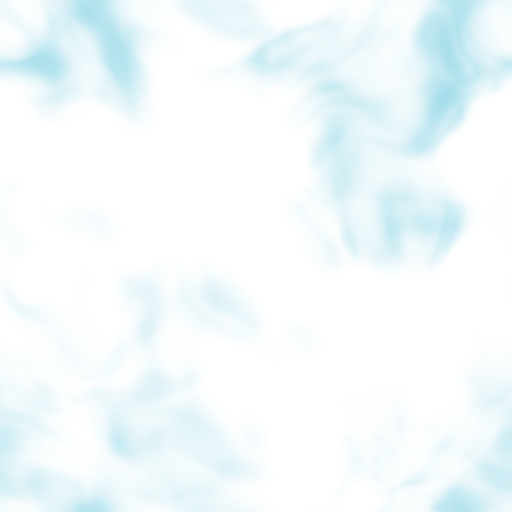
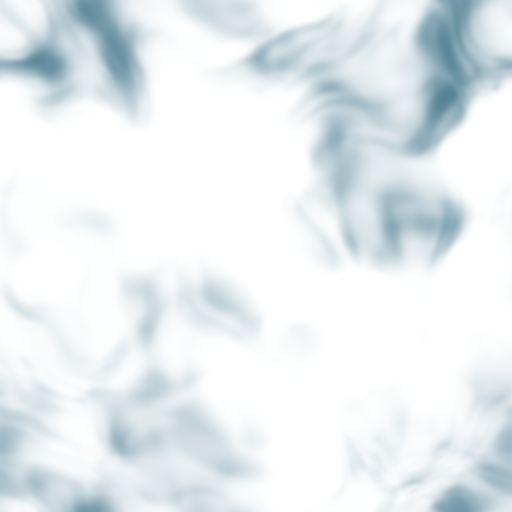
Daily Games: the shelf goes round in a circle (a copy of the row each side, back to the middle row at rest; one case a swipe); darker smoke; sw CACHE gg-v256
Claude-Session: https://claude.ai/code/session_01AH8E1dTJHFZcRinqqkpkzG

diff --git a/js/views/games.js b/js/views/games.js
@@ -284,11 +284,12 @@ function backHTML(g, s) {
     + `<span class="gm-scr"><span class="gm-scr-h">Today’s leaderboard</span>${rows}</span>`
     + `<span class="gm-bk-foot"><span class="gm-bk-tap">Tap for the season ›</span></span></span></div>`;
 }
-function caseHTML(g, s, i, n) {
+function caseHTML(g, s, i, n, clone) {
   const done = s.kind === 'done';
   const what = done ? `${g.name}: played today${placeText(s) ? `, ${placeText(s)}` : ''}. Show the leaderboard` : `${g.name}${s.kind === 'started' ? ', under way' : ''}`;
-  return `<div class="gm-slot" role="group" aria-roledescription="slide" aria-label="${i + 1} of ${n}" data-gm-slot="${g.id}">`
-    + `<button type="button" class="gm-case${done ? ' is-done' : ''}" data-gm="${g.id}" data-kind="${s.kind}" aria-label="${esc(what)}">`
+  const slot = clone ? 'aria-hidden="true" data-gm-clone' : `role="group" aria-roledescription="slide" aria-label="${i + 1} of ${n}"`;
+  return `<div class="gm-slot" ${slot} data-gm-slot="${g.id}">`
+    + `<button type="button" class="gm-case${done ? ' is-done' : ''}" data-gm="${g.id}" data-kind="${s.kind}" aria-label="${esc(what)}"${clone ? ' tabindex="-1"' : ''}>`
     + `<span class="gm-flip">${frontHTML(g, s)}${done ? backHTML(g, s) : ''}</span><span class="gm-gloss" aria-hidden="true"></span></button></div>`;
 }
 
@@ -324,12 +325,16 @@ function selHTML(g, s) {
 function stateOf(g) {
   try { return STATE[g.id](); } catch (e) { console.error(e); return {kind: 'new', sub: SUBS[g.id] || ''}; }
 }
-/** The shelf as it stands now (the cores that haven't loaded yet show Play). */
+/** The shelf as it stands now (the cores that haven't loaded yet show Play). It goes round in a circle (the owner's
+ *  ask, Oct 2026): the games three times over, the real ones in the middle and a copy each side (data-gm-clone, hidden
+ *  from screen readers), so past the last game comes the first again; mountList moves you back to the middle row
+ *  whenever the shelf comes to rest out on a copy. */
 export function listHTML() {
   const list = gamesFor(), states = list.map(stateOf);
+  const row = clone => list.map((g, i) => caseHTML(g, states[i], i, list.length, clone)).join('');
   return `<div class="gm-list" data-key="games" data-enter data-ids="${list.map(g => g.id).join(' ')}">`
     + `<div class="gm-shelf" data-hscroll role="region" aria-roledescription="carousel" aria-label="Daily games: swipe across" tabindex="0">`
-    + list.map((g, i) => caseHTML(g, states[i], i, list.length)).join('') + `</div>`
+    + row(true) + row(false) + row(true) + `</div>`
     + `<div class="gm-pips" aria-hidden="true">${list.map((g, i) => `<i class="gm-pip${states[i].kind === 'done' ? ' is-done' : ''}" data-gm-pip="${g.id}"></i>`).join('')}</div>`
     + `<div class="gm-sel" data-gm-sel aria-live="polite">${selHTML(list[0], states[0])}</div></div>`;
 }
@@ -339,10 +344,13 @@ const SHELF_KEY = 'gg-shelf';
 /** Wires the shelf in el: the cores load at idle; refresh(animate) brings every case (and what's under the shelf) up to
  *  date (a game just finished turns its case round), tick() moves the countdown. opts.play(id): open a game. */
 export function mountList(el, ctx, opts = {}) {
-  const st = {dead: false, cur: 0, zoom: null, raf: 0, saved: 0};
+  // st.cur: the slot in the middle, counting every copy (slots()); its game is list()[st.cur % n()]
+  const st = {dead: false, cur: 0, zoom: null, raf: 0, saved: 0, settle: 0, touch: false};
   const shelf = el.querySelector('.gm-shelf'), sel = el.querySelector('[data-gm-sel]');
   const list = () => gamesFor().filter(g => el.querySelector(`.gm-slot[data-gm-slot="${g.id}"]`));
   const slots = () => [...el.querySelectorAll('.gm-slot')];
+  const n = () => Math.max(1, list().length);
+  const curCase = id => { const sl = slots()[st.cur]; return sl && sl.dataset.gmSlot === id ? sl.querySelector('.gm-case') : el.querySelector(`.gm-slot:not([data-gm-clone]) .gm-case[data-gm="${id}"]`); };
   const shown = new Map(); // id → the markup its case shows
   const sig = (g, s) => `${s.kind}|${s.test ? 1 : 0}|${s.kind === 'done' ? backHTML(g, s) : frontHTML(g, s)}`;
   // the case in the middle: bigger and lit, the others smaller and turned a little toward it
@@ -357,15 +365,30 @@ export function mountList(el, ctx, opts = {}) {
       sl.classList.toggle('is-cur', a < .5);
       if (Math.abs(d) < bd) { bd = Math.abs(d); best = i; }
     });
-    if (best !== st.cur) setCur(best);
+    if (best !== st.cur) { const was = st.cur; st.cur = best; if (was < 0 || was % n() !== best % n()) setCur(best % n()); }
+  };
+  // Round the circle: at rest on a copy, the same case in the middle row takes its place (no movement to see: the
+  // copies look the same). Never under a finger, and not before the shelf has stopped.
+  const settle = () => {
+    st.settle = 0;
+    const k = n(), j = st.cur;
+    if (st.dead || st.touch || j < 0 || (j >= k && j < 2 * k)) return;
+    const all = slots(), to = k + (j % k);
+    if (!all[j] || !all[to]) return;
+    shelf.scrollLeft += all[to].offsetLeft - all[j].offsetLeft; // (at once: the shelf has no smooth scrolling of its own)
+    st.cur = to;
+    layout();
   };
   const onScroll = () => {
     if (!st.raf) st.raf = requestAnimationFrame(layout);
+    clearTimeout(st.settle);
+    st.settle = setTimeout(settle, 140);
     clearTimeout(st.saved);
-    st.saved = setTimeout(() => { const g = list()[st.cur]; if (g) try { sessionStorage.setItem(SHELF_KEY, g.id); } catch (_) {} }, 200);
+    st.saved = setTimeout(() => { const g = list()[st.cur % n()]; if (g) try { sessionStorage.setItem(SHELF_KEY, g.id); } catch (_) {} }, 200);
   };
+  const onDown = () => { st.touch = true; };
+  const onUp = () => { st.touch = false; clearTimeout(st.settle); st.settle = setTimeout(settle, 140); };
   function setCur(i, animate = true) {
-    st.cur = i;
     const g = list()[i];
     if (!g) return;
     el.querySelectorAll('[data-gm-pip]').forEach(p => p.classList.toggle('is-cur', p.dataset.gmPip === g.id));
@@ -374,6 +397,7 @@ export function mountList(el, ctx, opts = {}) {
     const go = () => { sel.dataset.html = html; sel.innerHTML = html; ui.hydrate(sel); };
     if (animate && ctx.visible && !ui.RM) ui.crossfade(sel, go, {duration: 140}); else go();
   }
+  // i: a slot, counting every copy
   const center = (i, smooth = true) => {
     const sl = slots()[i];
     if (!sl) return;
@@ -392,7 +416,7 @@ export function mountList(el, ctx, opts = {}) {
       + (note || `<div class="gm-scr-rows" role="list" aria-label="${mode === 'season' ? 'The season' : 'Today'}">${rows.map(r => rowHTML(r, {sub: true})).join('')}</div>`);
   }
   function openZoom(id) {
-    const g = byId(id), cs = el.querySelector(`.gm-case[data-gm="${id}"]`);
+    const g = byId(id), cs = curCase(id);
     if (!g || st.zoom) return;
     const s = stateOf(g);
     const z = document.createElement('div');
@@ -442,7 +466,7 @@ export function mountList(el, ctx, opts = {}) {
     if (!Z) return;
     st.zoom = null;
     if (Z.app) Z.app.inert = Z.prev;
-    const cs = el.querySelector(`.gm-case[data-gm="${Z.id}"]`), card = Z.el.querySelector('.gm-z-case');
+    const cs = curCase(Z.id), card = Z.el.querySelector('.gm-z-case');
     if (fast || ui.RM || !cs || !card) { Z.el.remove(); if (cs && !fast) cs.focus({preventScroll: true}); return; }
     const a = cs.getBoundingClientRect(), b = card.getBoundingClientRect();
     const sx = a.width / b.width, sy = a.height / b.height, dx = a.left + a.width / 2 - (b.left + b.width / 2), dy = a.top + a.height / 2 - (b.top + b.height / 2);
@@ -457,8 +481,8 @@ export function mountList(el, ctx, opts = {}) {
     if (zb) { openZoom(zb.dataset.gmZoom); return; }
     const cs = e.target.closest('.gm-case[data-gm]');
     if (!cs) return;
-    const i = list().findIndex(g => g.id === cs.dataset.gm);
-    if (i !== st.cur) { ui.haptic('selection'); center(i); return; }
+    const i = slots().indexOf(cs.closest('.gm-slot'));
+    if (i >= 0 && i !== st.cur) { ui.haptic('selection'); center(i); return; }
     if (cs.dataset.kind === 'done') { openZoom(cs.dataset.gm); return; }
     if (cs.dataset.kind === 'loading') return;
     if (cs.dataset.kind === 'error') { const b = sel.querySelector('[data-gm-retry]'); if (b) b.click(); return; }
@@ -468,10 +492,15 @@ export function mountList(el, ctx, opts = {}) {
   const onKey = e => {
     if (e.key !== 'ArrowLeft' && e.key !== 'ArrowRight') return;
     e.preventDefault();
-    const i = Math.max(0, Math.min(list().length - 1, st.cur + (e.key === 'ArrowLeft' ? -1 : 1)));
-    if (i !== st.cur) center(i);
+    center(st.cur + (e.key === 'ArrowLeft' ? -1 : 1)); // round the circle (settle brings it back to the middle row)
   };
   shelf.addEventListener('scroll', onScroll, {passive: true});
+  shelf.addEventListener('pointerdown', onDown, {passive: true});
+  shelf.addEventListener('touchstart', onDown, {passive: true});
+  addEventListener('pointerup', onUp, {passive: true});
+  addEventListener('touchend', onUp, {passive: true});
+  addEventListener('touchcancel', onUp, {passive: true});
+  if ('onscrollend' in shelf) shelf.addEventListener('scrollend', onUp);
   shelf.addEventListener('keydown', onKey);
   el.addEventListener('click', onClick);
   const onResize = () => { center(st.cur, false); layout(); };
@@ -486,7 +515,7 @@ export function mountList(el, ctx, opts = {}) {
     const gs = list();
     let i = gs.findIndex(g => g.id === id);
     if (i < 0) i = Math.max(0, gs.findIndex(g => stateOf(g).kind !== 'done'));
-    center(i, false);
+    center(n() + i, false); // in the middle row
     st.cur = -1;
     layout();
   };
@@ -509,24 +538,25 @@ export function mountList(el, ctx, opts = {}) {
       return;
     }
     list().forEach((g, i) => {
-      const cs = el.querySelector(`.gm-case[data-gm="${g.id}"]`);
-      if (!cs) return;
+      const css = [...el.querySelectorAll(`.gm-case[data-gm="${g.id}"]`)]; // the game and its copies
+      if (!css.length) return;
       const s = stateOf(g), key = sig(g, s);
       if (shown.get(g.id) === key) return;
-      const was = cs.dataset.kind;
       shown.set(g.id, key);
-      const flipNow = s.kind === 'done' && was !== 'done';
-      cs.dataset.kind = s.kind;
-      const fl = cs.querySelector('.gm-flip');
-      fl.innerHTML = frontHTML(g, s) + (s.kind === 'done' ? backHTML(g, s) : '');
-      ui.hydrate(fl);
-      // a game just finished: its case turns round to the leaderboard
-      if (flipNow && animate && ctx.visible && !ui.RM) requestAnimationFrame(() => requestAnimationFrame(() => cs.classList.add('is-done')));
-      else cs.classList.toggle('is-done', s.kind === 'done');
-      cs.setAttribute('aria-label', s.kind === 'done' ? `${g.name}: played today${placeText(s) ? `, ${placeText(s)}` : ''}. Show the leaderboard` : `${g.name}${s.kind === 'started' ? ', under way' : ''}`);
+      css.forEach(cs => {
+        const flipNow = s.kind === 'done' && cs.dataset.kind !== 'done';
+        cs.dataset.kind = s.kind;
+        const fl = cs.querySelector('.gm-flip');
+        fl.innerHTML = frontHTML(g, s) + (s.kind === 'done' ? backHTML(g, s) : '');
+        ui.hydrate(fl);
+        // a game just finished: its case turns round to the leaderboard
+        if (flipNow && animate && ctx.visible && !ui.RM) requestAnimationFrame(() => requestAnimationFrame(() => cs.classList.add('is-done')));
+        else cs.classList.toggle('is-done', s.kind === 'done');
+        cs.setAttribute('aria-label', s.kind === 'done' ? `${g.name}: played today${placeText(s) ? `, ${placeText(s)}` : ''}. Show the leaderboard` : `${g.name}${s.kind === 'started' ? ', under way' : ''}`);
+      });
       const pip = el.querySelector(`[data-gm-pip="${g.id}"]`);
       if (pip) pip.classList.toggle('is-done', s.kind === 'done');
-      if (i === st.cur) setCur(i, animate);
+      if (i === st.cur % n()) setCur(i, animate);
     });
     if (st.zoom) {
       const body = st.zoom.el.querySelector('[data-gm-zbody]'), g = byId(st.zoom.id), html = zoomBody(g, st.zoom.mode);
@@ -542,7 +572,14 @@ export function mountList(el, ctx, opts = {}) {
   return {refresh, tick, destroy() {
     st.dead = true;
     closeZoom(true);
+    clearTimeout(st.settle);
     shelf.removeEventListener('scroll', onScroll);
+    shelf.removeEventListener('pointerdown', onDown);
+    shelf.removeEventListener('touchstart', onDown);
+    shelf.removeEventListener('scrollend', onUp);
+    removeEventListener('pointerup', onUp);
+    removeEventListener('touchend', onUp);
+    removeEventListener('touchcancel', onUp);
     shelf.removeEventListener('keydown', onKey);
     el.removeEventListener('click', onClick);
     removeEventListener('resize', onResize);

diff --git a/js/core/checks.js b/js/core/checks.js
@@ -1528,12 +1528,15 @@ export async function runChecks() {
 
   // The Daily Games list (Oct 2026): a shelf of game cases, each with its own cover (the owner's art), opening the game's
   // own page; a game played today is its scoreboard, read from the board as this phone may see it (THE RULE, CLAUDE.md).
-  check('Daily Games: a shelf of game cases (Daily Puzzles, 17-0, the Two-Minute Drill, Kick It, Return Man: the owner\'s alone while he tests it), each a black case with the Gridiron Hub band, its own cover and its own page; swiped along (its own sideways scroll, not the tabs\'); a game played today shows its case\'s back: today\'s board with you among them, and a Season board behind it, read from the board as this phone sees it', async () => {
+  check('Daily Games: a shelf of game cases (Daily Puzzles, 17-0, the Two-Minute Drill, Kick It, Return Man: the owner\'s alone while he tests it), each a black case with the Gridiron Hub band, its own cover and its own page; swiped along in a circle (its own sideways scroll, not the tabs\'); a game played today shows its case\'s back: today\'s board with you among them, and a Season board behind it, read from the board as this phone sees it', async () => {
     const host = document.createElement('div');
     host.innerHTML = listHTML();
     const want = data.me() === data.OWNER ? 'puzzles,17-0,drill,kick,return' : 'puzzles,17-0,drill,kick';
-    const cases = [...host.querySelectorAll('.gm-case')];
+    const cases = [...host.querySelectorAll('.gm-slot:not([data-gm-clone]) .gm-case')];
     const order = cases.map(c => c.dataset.gm).join();
+    // in a circle: a copy of the row each side (past the last game, the first again), hidden from screen readers
+    const ring = [...host.querySelectorAll('.gm-slot')].map(s => s.dataset.gmSlot).join() === [want, want, want].join()
+      && [...host.querySelectorAll('.gm-slot[data-gm-clone]')].every(s => s.getAttribute('aria-hidden') === 'true' && s.querySelector('.gm-case').tabIndex === -1);
     const covers = cases.map(c => (c.querySelector('.gm-front .gm-art img') || {}).getAttribute?.('src'));
     const art = cases.every((c, i) => covers[i] === (GAMES.find(g => g.id === c.dataset.gm) || {}).art
       && (c.querySelector('.gm-front .gm-band-t') || {}).textContent === 'GRIDIRON HUB');
@@ -1552,9 +1555,9 @@ export async function runChecks() {
     const all = !src || src.split('\n').some(l => /LB\.all\b/.test(l.replace(/\/\/.*$/, '').replace(/\/\*.*?\*\//g, '')));
     const [dr, kk, rm] = await Promise.all(['./drill.js', './kick.js', './return.js'].map(f => import(f)));
     const season = /daily\.boardRows\('season'\)/.test(src) && /boardRows\('all'\)/.test(src) && [dr, kk, rm].every(m => typeof m.seasonRows === 'function');
-    const pass = order === want && art && own && loads.every(Boolean) && swipe
+    const pass = order === want && ring && art && own && loads.every(Boolean) && swipe
       && pages === '/puzzles/daily,/puzzles/17-0,/puzzles/drill,/puzzles/kick,/puzzles/return' && rows && !all && season;
-    return {pass, detail: `cases ${order}; covers and bands ${art}; covers ${loads.filter(Boolean).length}/${GAMES.length} load${own ? '' : ' (not each its own)'}; swiped ${swipe}; pages ${pages}; rows: tie "${tie}", 5th "${low}", 2nd "${mid}", top five "${five}"; season boards ${season}; ${all ? 'reads LB.all' : 'no LB.all reads'}`};
+    return {pass, detail: `cases ${order}${ring ? ', round in a circle' : ' (not in a circle)'}; covers and bands ${art}; covers ${loads.filter(Boolean).length}/${GAMES.length} load${own ? '' : ' (not each its own)'}; swiped ${swipe}; pages ${pages}; rows: tie "${tie}", 5th "${low}", 2nd "${mid}", top five "${five}"; season boards ${season}; ${all ? 'reads LB.all' : 'no LB.all reads'}`};
   });
 
   check('The Lay live tracking reads the league\'s kinds of legs and scores them against a game', () => {

diff --git a/css/views/puzzles.css b/css/views/puzzles.css
@@ -111,11 +111,11 @@ html.rm .v-puzzles .c-prog-f, html.rm .v-puzzles .c-prog-f::after, html.rm .v-pu
   content: ""; position: absolute; left: -60px; top: -40px; z-index: -1; pointer-events: none;
   width: calc(100% + 180px); height: calc(100% + 140px);
   background: url(../../img/games/smoke.webp) 0 0 / 620px 620px repeat;
-  opacity: .5; will-change: transform;
+  opacity: .4; will-change: transform;
   animation: gm-smoke-a 34s ease-in-out infinite alternate;
 }
 :root:not([data-light]) .screen.v-puzzles[data-path="/puzzles"]::after {
-  background-size: 900px 900px; background-position: 210px 380px; opacity: .34;
+  background-size: 900px 900px; background-position: 210px 380px; opacity: .27;
   animation: gm-smoke-b 47s ease-in-out -12s infinite alternate;
 }
 @keyframes gm-smoke-a { from { transform: translate(0, 0); } to { transform: translate(-110px, -70px); } }
@@ -133,7 +133,7 @@ html.rm .screen.v-puzzles[data-path="/puzzles"]::before, html.rm .screen.v-puzzl
 .v-puzzles .gm-list { position: relative; margin-top: 2px; }
 .v-puzzles .gm-list::before {
   content: ""; position: absolute; left: calc(-1 * var(--gutter)); right: calc(-1 * var(--gutter)); top: 0; height: 420px; pointer-events: none;
-  background: radial-gradient(ellipse 60% 52% at 50% 46%, rgba(120,200,220,.2), transparent 72%);
+  background: radial-gradient(ellipse 60% 52% at 50% 46%, rgba(90,160,180,.14), transparent 72%);
 }
 .v-puzzles .gm-shelf {
   --cw: min(62cqw, 262px);
@@ -146,7 +146,7 @@ html.rm .screen.v-puzzles[data-path="/puzzles"]::before, html.rm .screen.v-puzzl
 .v-puzzles .gm-shelf::-webkit-scrollbar { display: none; }
 .v-puzzles .gm-slot {
   --k: 1; --d: 0;
-  flex: none; width: var(--cw); margin: 0 calc(var(--cw) * -.07); scroll-snap-align: center; position: relative;
+  flex: none; width: var(--cw); margin: 0 calc(var(--cw) * -.07); scroll-snap-align: center; scroll-snap-stop: always; position: relative;
   transform: perspective(900px) rotateY(calc(var(--d) * -14deg)) scale(calc(1 - var(--k) * .17));
   opacity: calc(1 - var(--k) * .3); z-index: calc(10 - var(--k) * 5);
   will-change: transform;

diff --git a/sw.js b/sw.js
@@ -7,7 +7,7 @@
 // A slow request falls back to whatever is cached under its path (from the previous worker too), so data whose
 // format changes gets a new file name rather than new content under the old one (data/puzzles-v4.json: see
 // js/core/daily.js).
-const CACHE = 'gg-v255';
+const CACHE = 'gg-v256';
 const CORE = ['ui', 'data', 'daily', 'fire', 'week', 'nfl', 'stats', 'motw', 'press', 'checks', 'checks-stats', 'checks-pickem', 'checks-press', 'checks-seventeen', 'checks-drill', 'checks-kick', 'return', 'checks-return', 'lay', 'plays', 'laytrack', 'seventeen', 'drill-sim', 'drill', 'kick', 'avatars'];
 // The six tab roots are puzzles, pickem, rivals (Matchup), league, moves (Draft) and lay (The Lay).
 const VIEWS = ['welcome', 'guest', 'puzzles', 'games', 'board', 'you', 'sharecard', 'results', 'run', 'college', 'silhouette', 'mystery', 'journey', 'grid', 'picker',

diff --git a/tools/smoke/smoke.py b/tools/smoke/smoke.py
@@ -48,7 +48,7 @@ d = np.clip((s - lo) / (hi - lo), 0, 1)
 d = d * d * (3 - 2 * d)            # smoothstep
 d = d ** 1.5
 
-col = np.array([168, 222, 236], float)                 # light teal: the screen's tint does the rest
+col = np.array([86, 132, 150], float)                 # a deep teal (the owner: darker, Oct 2026)
 rgba = np.zeros((N, N, 4), np.uint8)
 rgba[..., :3] = col
 rgba[..., 3] = np.round(d * 255).astype(np.uint8)
